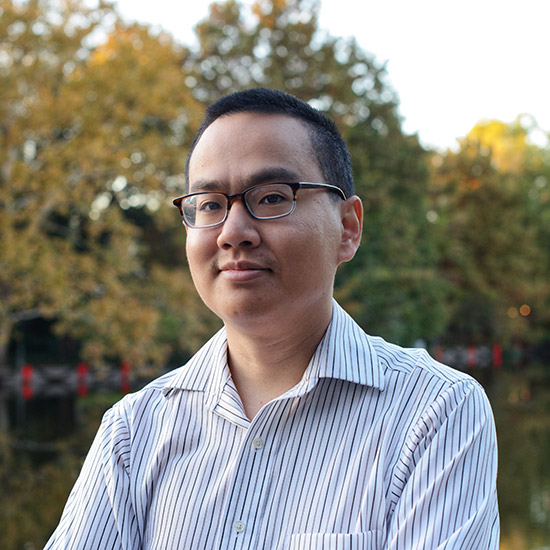
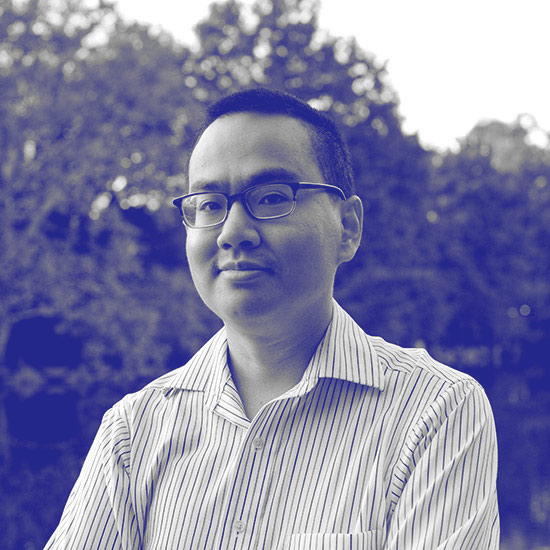
Add profile pic

diff --git a/portfolio/src/components/About.js b/portfolio/src/components/About.js
@@ -2,6 +2,7 @@ import React, { Component } from "react";
 import {Helmet} from "react-helmet";
 import { Link } from 'react-router-dom'
 import resume from '..//docs/john-nguyen-resume-cv.pdf';
+import profilePic from '../images/john_nguyen.jpg';
 
 export default class About extends Component {
     render() {
@@ -56,6 +57,7 @@ export default class About extends Component {
                                 <p>Take a peek at <Link to="/">my past work</Link>. Then give me <Link to="/contact">a holla</Link>.</p>
                             </article>
                             <aside className="sidebar">
+                                <img src={profilePic} alt="John Nguyen" className="profilePic" />
                                 <ul>
                                     <li><a href={resume} className="aboutLink aboutLinkResume">Résumé/CV</a></li>
                                     <li><a href="https://www.linkedin.com/in/johannguyen/" className="aboutLink aboutLinkLinkedin">Linkedin Profile</a></li>

diff --git a/portfolio/src/App.css b/portfolio/src/App.css
@@ -476,7 +476,7 @@ section {
         .about .aboutHero .aboutHeroContent .sidebar {
           flex: 1; } }
       .about .aboutHero .aboutHeroContent .sidebar ul {
-        margin-top: 3rem; }
+        margin-top: 1rem; }
         @media (min-width: 600px) {
           .about .aboutHero .aboutHeroContent .sidebar ul {
             margin-left: 0;
@@ -543,6 +543,16 @@ section {
         .about .aboutHero .aboutHeroContent .aboutLink {
           max-width: 200px;
           min-width: 200px; } }
+  .about .aboutHero .profilePic {
+    max-width: 260px;
+    clip-path: circle(125px at 50% 50%); }
+    @media (max-width: 599px) {
+      .about .aboutHero .profilePic {
+        margin-top: 2rem;
+        margin-left: 1rem; } }
+    @media (min-width: 600px) {
+      .about .aboutHero .profilePic {
+        margin-top: 3rem; } }
 
 .contact .contactHero {
   background: url("images/hero-contact.jpg") no-repeat;

diff --git a/portfolio/src/App.scss b/portfolio/src/App.scss
@@ -576,7 +576,7 @@ section {
           flex: 1;
         }
         ul {
-          margin-top: 3rem;
+          margin-top: 1rem;
           @include medium {
             margin-left: 0;
             padding-left: 0;
@@ -652,6 +652,17 @@ section {
           max-width: 200px;
           min-width: 200px;
         }
+      }
+    }
+    .profilePic {
+      max-width:260px;
+      clip-path: circle(125px at 50% 50%);
+      @include small {
+        margin-top:2rem;
+        margin-left:1rem;
+      }
+      @include medium {
+        margin-top:3rem;
       }
     }
   }
